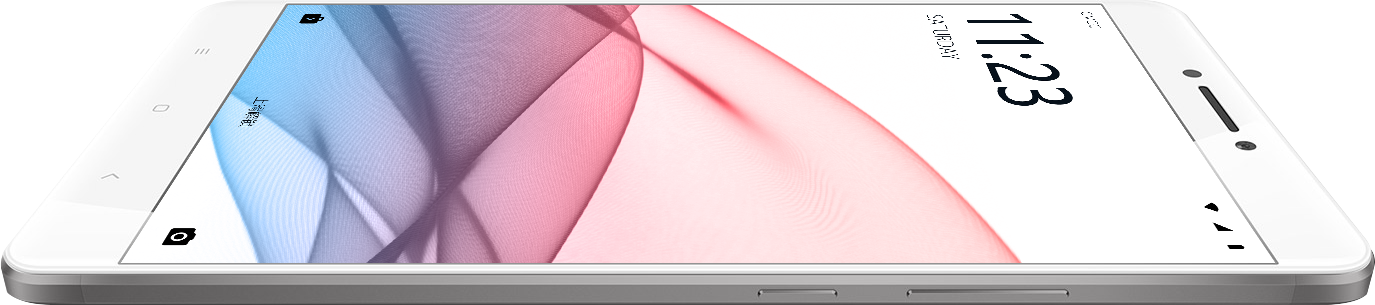
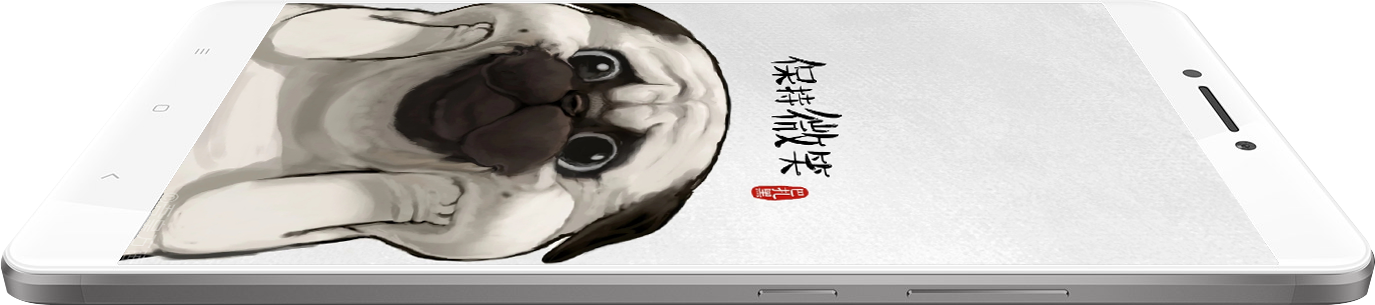
screen3 hover

diff --git a/project/shop/src/pages/XXR/components/Screen3.vue b/project/shop/src/pages/XXR/components/Screen3.vue
@@ -1,53 +1,116 @@
 <template>
-      <section class="screen-3">
-      <div class="screen-3__wrap">
-        <div class="screen-3__heading">外形小巧，功能强大的手机</div>
-        <div class="screen-3__subheading">
-          <p>采用受欢迎的设计，让它更加出色。</p>
-          <p>款式小巧、轻便手感更舒适。绚丽高清的显示屏，整个外观显得格外精致。</p>
+  <section class="screen-3">
+    <div class="wrapper">
+      <div class="heading">外形小巧，功能强大的手机</div>
+      <div class="subheading">
+        <p>采用受欢迎的设计，让它更加出色。</p>
+        <p>款式小巧、轻便手感更舒适。绚丽高清的显示屏，整个外观显得格外精致。</p>
+      </div>
+      <div class="phone"></div>
+      <div class="features-wrapper">
+        <div class="item">
+          <span class="number item_i_1">
+            5.7
+          </span>英寸大屏
         </div>
-        <div class="screen-3__phone"></div>
-        <div class="screen-3__features">
-          <div class="screen-3__features-item">
-            <span class="screen-3__features-item-number screen-3__features-item_i_1">
-              5.7
-            </span>英寸大屏
-          </div>
-          <div class="screen-3__features-item">
-            <span class="screen-3__features-item-number screen-3__features-item_i_2">
-              1200
-            </span>万像素
-          </div>
-          <div class="screen-3__features-item">
-            <span class="screen-3__features-item-number screen-3__features-item_i_3">
-              3D
-            </span>touch
-          </div>
-          <div class="screen-3__features-item">
-            <span class="screen-3__features-item-number screen-3__features-item_i_4">
-              A9
-            </span>处理器
-          </div>
+        <div class="item">
+          <span class="number item_i_2">
+            1200
+          </span>万像素
+        </div>
+        <div class="item">
+          <span class="number item_i_3">
+            3D
+          </span>touch
+        </div>
+        <div class="item">
+          <span class="number item_i_4">
+            A9
+          </span>处理器
         </div>
       </div>
-    </section>
+    </div>
+  </section>
 </template>
 <script>
 export default {
-  name: 'xxr',
+  name: 'screen3',
   mounted () {},
-  methods: {
-    toggle () {
-      this.show = !this.show
-    }
-  },
+  methods: {},
   computed: {},
   components: {},
   data () {
-    return { show: true }
+    return {}
   }
 }
 </script>
 
 <style lang='scss' scoped >
+.screen-3 {
+  color: rgb(255, 255, 255);
+  height: 800px;
+  background-color: #a71316;
+  transition: all 3s ease-out;
+  &:hover {
+    background: url(../img/index_body_1.jpg) 25% center no-repeat;
+  }
+  .wrapper {
+    max-width: 1200px;
+    min-width: 800px;
+    margin: 0px auto;
+    height: 100%;
+    position: relative;
+    overflow: hidden;
+
+    .heading {
+      position: absolute;
+      top: 90px;
+      left: 10px;
+      width: 580px;
+      font-size: 36px;
+    }
+    .subheading {
+      position: absolute;
+      top: 170px;
+      left: 10px;
+      width: 580px;
+      font-size: 16px;
+    }
+    .phone {
+      width: 729px;
+      height: 900px;
+      position: absolute;
+      top: 200px;
+      left: 465px;
+    }
+    .features-wrapper {
+      position: absolute;
+      width: 328px;
+      height: 288px;
+      bottom: 140px;
+      left: 5px;
+
+      .item {
+        float: left;
+        width: 138px;
+        height: 118px;
+        border: 1px solid #d97173;
+        border-radius: 3px;
+        text-align: center;
+        line-height: 14px;
+        font-size: 14px;
+        margin: 0 24px 24px 0;
+        color: #fff;
+
+        .number {
+          height: 36px;
+          font-size: 36px;
+          line-height: 36px;
+          padding: 32px 0 9px 0;
+          display: block;
+        }
+      }
+    }
+  }
+}
 </style >
